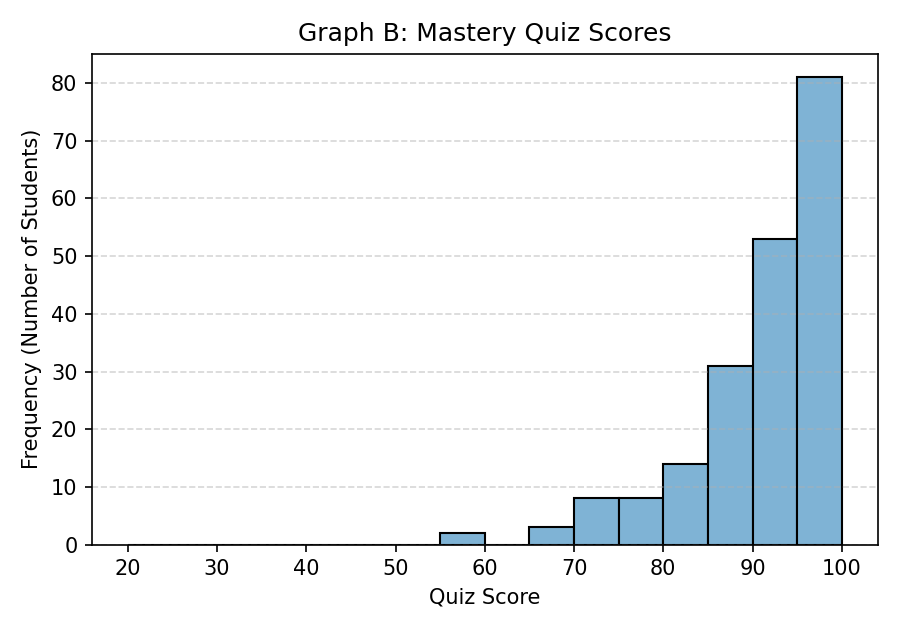
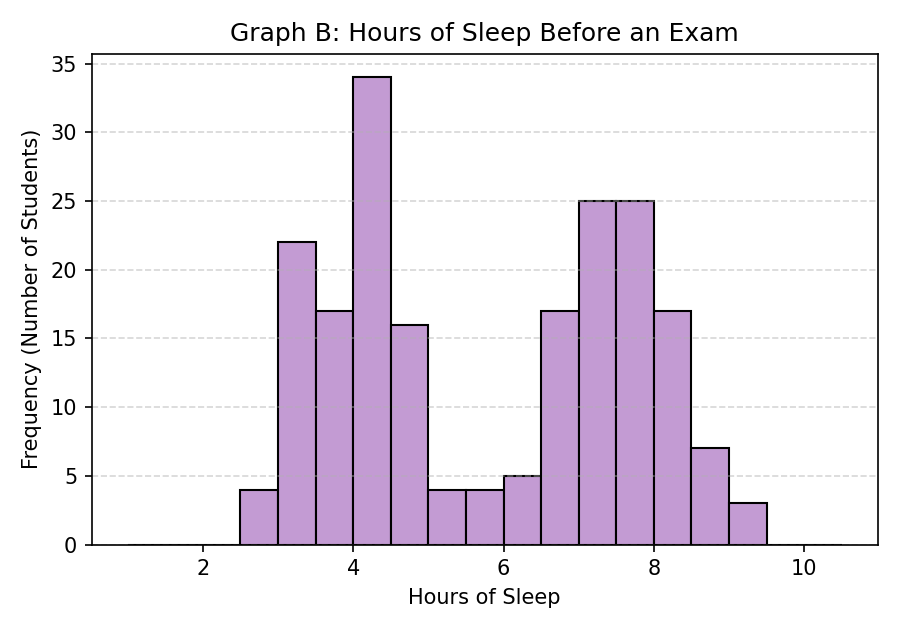
Fixed Practice Solution 5.3.1.

diff --git a/Lesson05/Solutions/5_3_Solution1.md b/Lesson05/Solutions/5_3_Solution1.md
@@ -28,10 +28,15 @@ MathJax = {
 
     <img src="https://drolsonmi.github.io/math1040/Lesson05/images/Fig531_PracticeC.png" width=450>
 
+    **Graph D:**
+
+    <img src="https://drolsonmi.github.io/math1040/Lesson05/images/Fig531_PracticeD.png" width=450>
+
 ### Solution
 
-- **Graph A** is **uniform**. This graph shows the results of 600 dice rolls. Since each of the 6 outcomes (1 through 6) is equally likely, every bin has roughly the same frequency, and the graph is close to flat across its width.
-- **Graph B** is **skewed right**. This graph shows household income. Most households cluster at the lower end, while a smaller number of high-income households stretch a tail out toward the larger values on the right.
-- **Graph C** is **bimodal**. This graph combines test scores from two different classes. Since the two classes performed differently on average, we see two separate peaks rather than one, with a dip between them.
+- **Graph A** is **skewed right**. This graph shows clinic wait times. Most wait times cluster at the lower end, while a smaller number of wait times stretch a tail out toward the larger values on the right.
+- **Graph B** is **bimodal**. This graph shows the hours of sleeps students get before an exam. There are two peaks with a decrease in the middle. It looks as if there are two normal distributions combined and joined in the middle.
+- **Graph C** is **normal**. This graph shows the heights of a sample of adult males. The majority of the samples are in the middle with equal numbers of measurements in both tails, making it a symmetric distribution.
+- **Graph B** is **skewed left**. This graph shows mastery quiz scores. Most quiz scores cluster at the upper end, while a smaller number of lower quiz scores stretch a tail out toward the smaller values on the left.
 
 [Return to lesson](https://drolsonmi.github.io/math1040/Lesson05/5_3_HistogramShapes.html#practice)

diff --git a/Lesson05/5_3_HistogramShapes.md b/Lesson05/5_3_HistogramShapes.md
@@ -98,6 +98,10 @@ As you look at histograms throughout this course (and in the real world), get in
 
     <img src="https://drolsonmi.github.io/math1040/Lesson05/images/Fig531_PracticeC.png" width=450>
 
+    **Graph D:**
+
+    <img src="https://drolsonmi.github.io/math1040/Lesson05/images/Fig531_PracticeD.png" width=450>
+
 - [After answering these questions on your own, check the solution](https://drolsonmi.github.io/math1040/Lesson05/Solutions/5_3_Solution1.html)
 
 2. A real estate agent creates a histogram of home sale prices in a large city. Would you expect this histogram to be symmetric, skewed right, or skewed left? Explain your reasoning.
